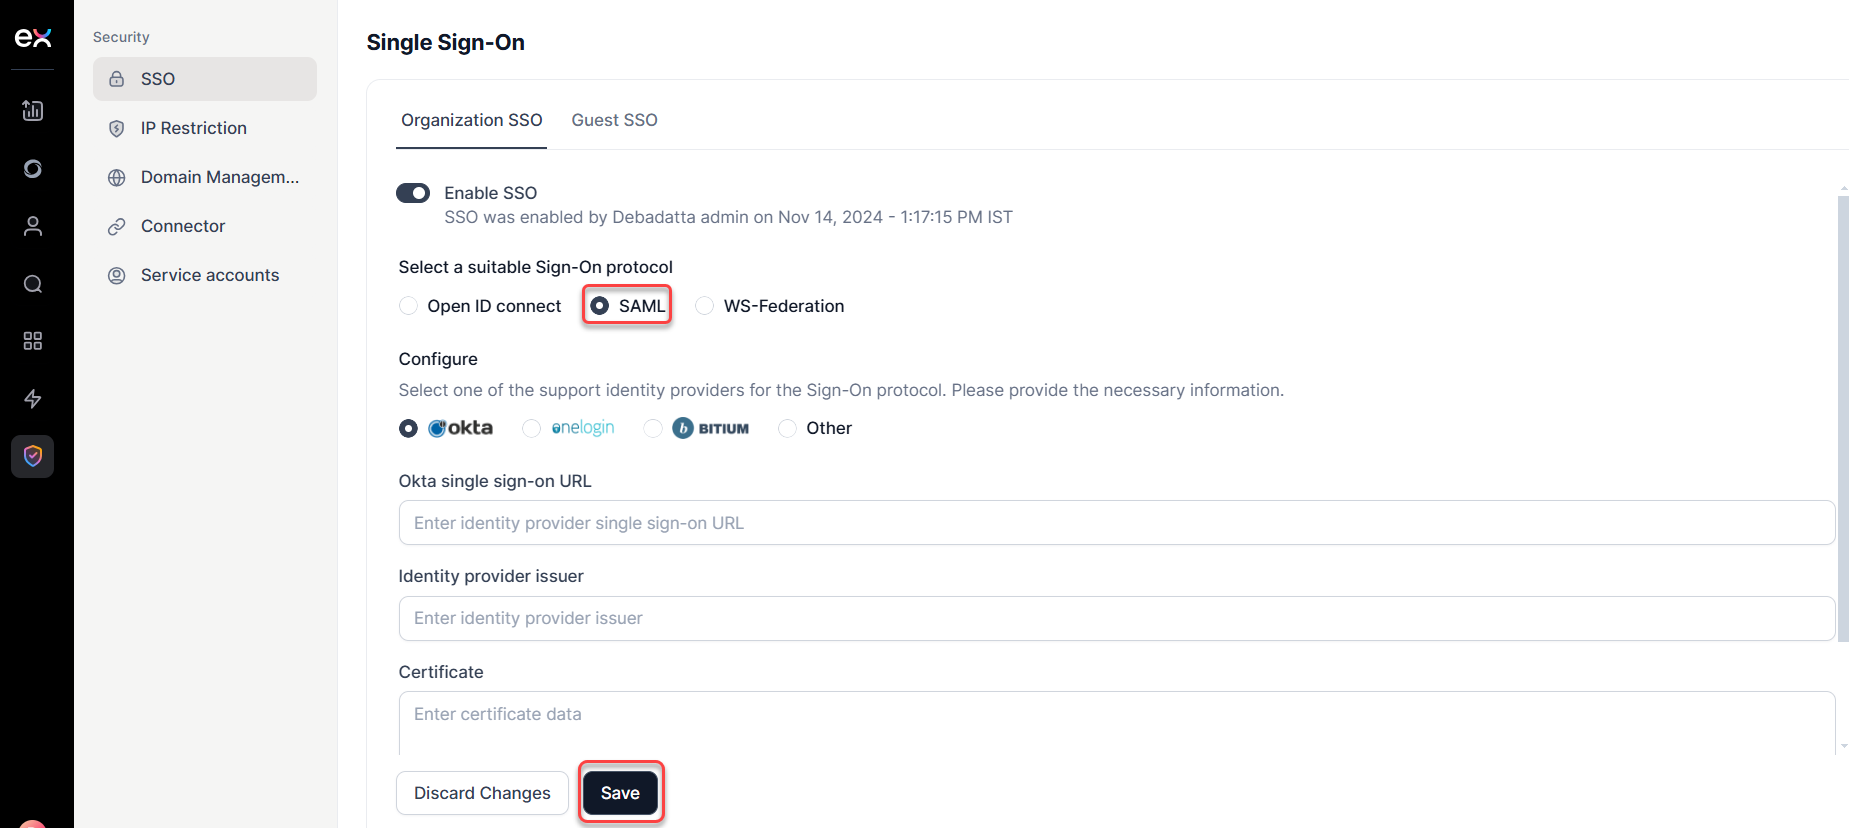
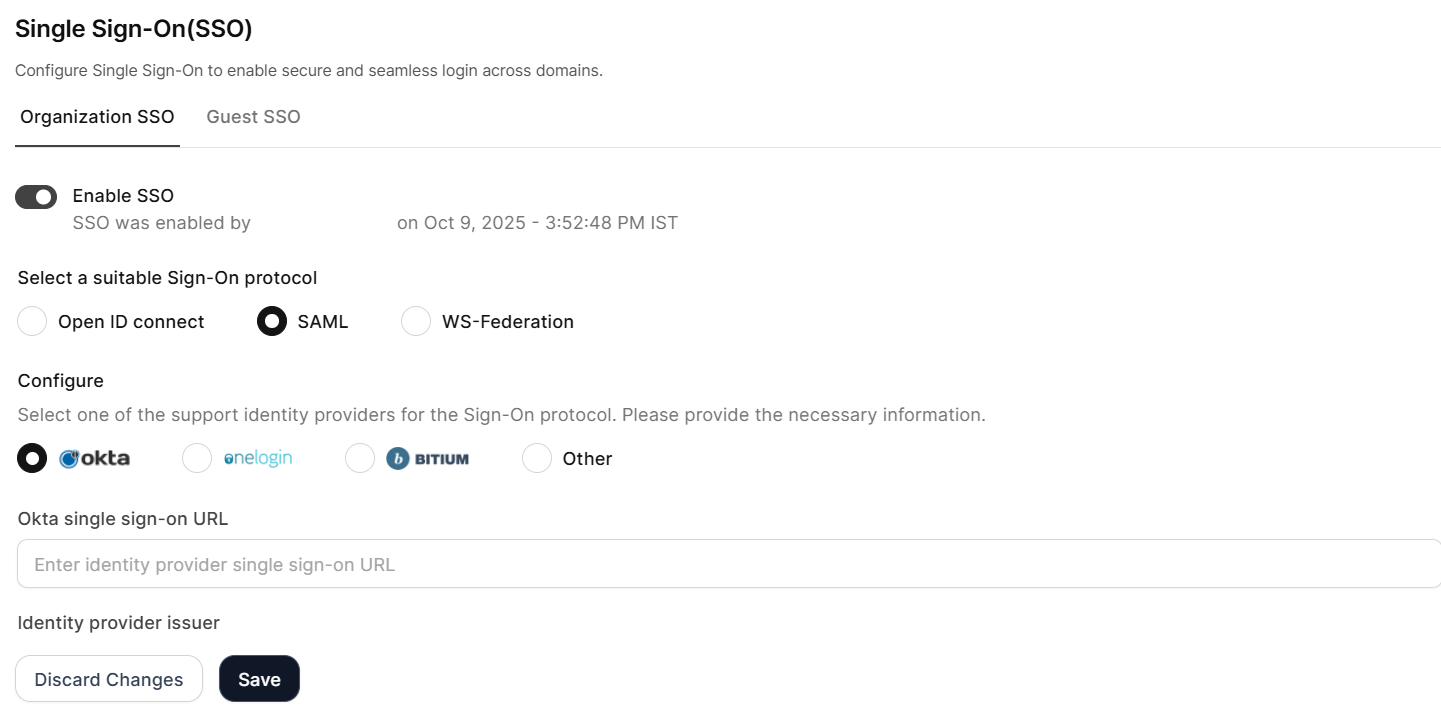
Updated images

Changed region(s): [[0.0, 0.0, 0.687, 1.0], [0.9681, 0.2172, 1.0, 0.7757], [0.2186, 0.2172, 0.5621, 0.2793]]

diff --git a/docs/eva/security/sso.md b/docs/eva/security/sso.md
@@ -2,6 +2,8 @@
 
 SSO enables easy access to **AI for Work** using your existing identity provider. With SSO, your users can log on once, for example, to your company account, and when accessing AI for Work, the system can automatically use the same login credentials.
 
+<img src="../images/sso.png" alt="sso" title="sso" style="border: 1px solid gray; zoom:80%;">
+
 Administrators can configure Single Sign-On (SSO) authentication for **AI for Work** using one of the following sign-on protocols or methods:
 
 * OpenID Connect (OIDC)
@@ -26,6 +28,7 @@ Refer to the below steps to configure SSO using the OIDC protocol.
 5. Click **Save**.
 6. The *Identity Provider information successfully updated* message is displayed at the top of the page.  
 
+<img src="../images/open-id-connect.png" alt="open-id-connect" title="open-id-connect" style="border: 1px solid gray; zoom:80%;">
 
 ### WS-Federation
 
@@ -42,12 +45,16 @@ Refer to the below steps to configure SSO using the WS-Federation protocol.
         * **AD Federation metadata Document URL** – The URL for the WS-Federation metadata document used for authentication with Active Directory.
 4. Click **Save**.  
 
+<img src="../images/wf-ad.png" alt="wf-ad" title="wf-ad" style="border: 1px solid gray; zoom:80%;">
+
 
 ### SAML
 
 Security Assertion Markup Language (SAML) is a standard protocol for web browser Single Sign-On (SSO) using secure tokens. SAML eliminates passwords and uses standard cryptography and digital signatures to pass secure sign-in tokens from an identity provider to a SaaS application.
 
 SAML provides a solution to allow your identity provider and service provider to exist separately. When a user logs into a SAML-enabled application, the service provider requests authorization from the appropriate identity provider. The identity provider authenticates the user's credentials and then returns the authorization for the user to the service provider, allowing the user to access the application.
+
+<img src="../images/saml.png" alt="saml" title="saml" style="border: 1px solid gray; zoom:80%;">
 
 
 ### Getting Started
